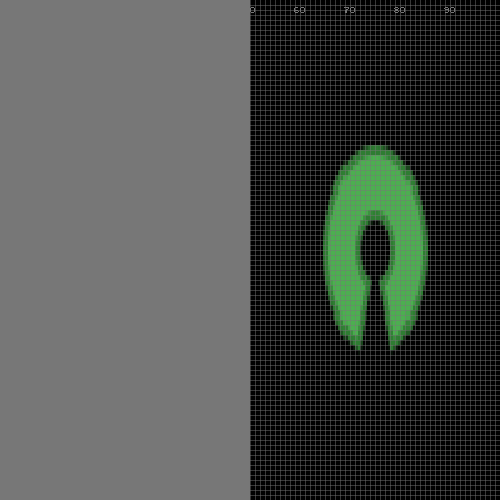
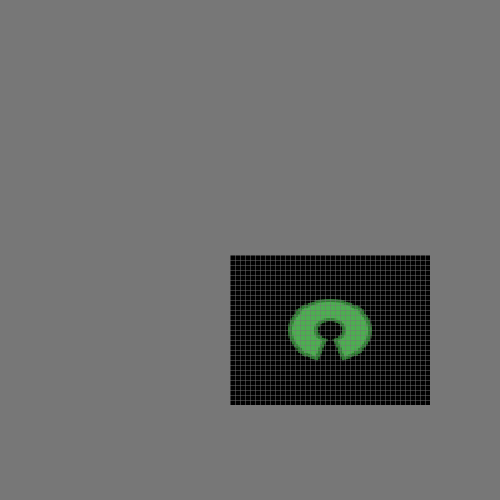
...

diff --git a/lua/doc/guide.md b/lua/doc/guide.md
@@ -424,7 +424,7 @@ rendered:
 > pico.output.draw.image("img/open.png",
     {'%', x=0.5, y=0.5, w=0.5, h=0.5})
 > pico.set.view {
-    target = {'%', x=0.75, y=0.5, w=0.5, h=1.0},
+    target = {'%', x=0.66, y=0.66, w=0.4, h=0.3},
   }
 </pre>
 </td><td>
@@ -432,7 +432,8 @@ rendered:
 </td></tr>
 </table>
 
-The logical world is rendered on the right half of the physical window.
+The visible effect is to move the world to fit a smaller target window at the
+bottom-right of the screen, with a slight distortion, since `w/h` now mismatch.
 
 ### 6.2. Source
 
